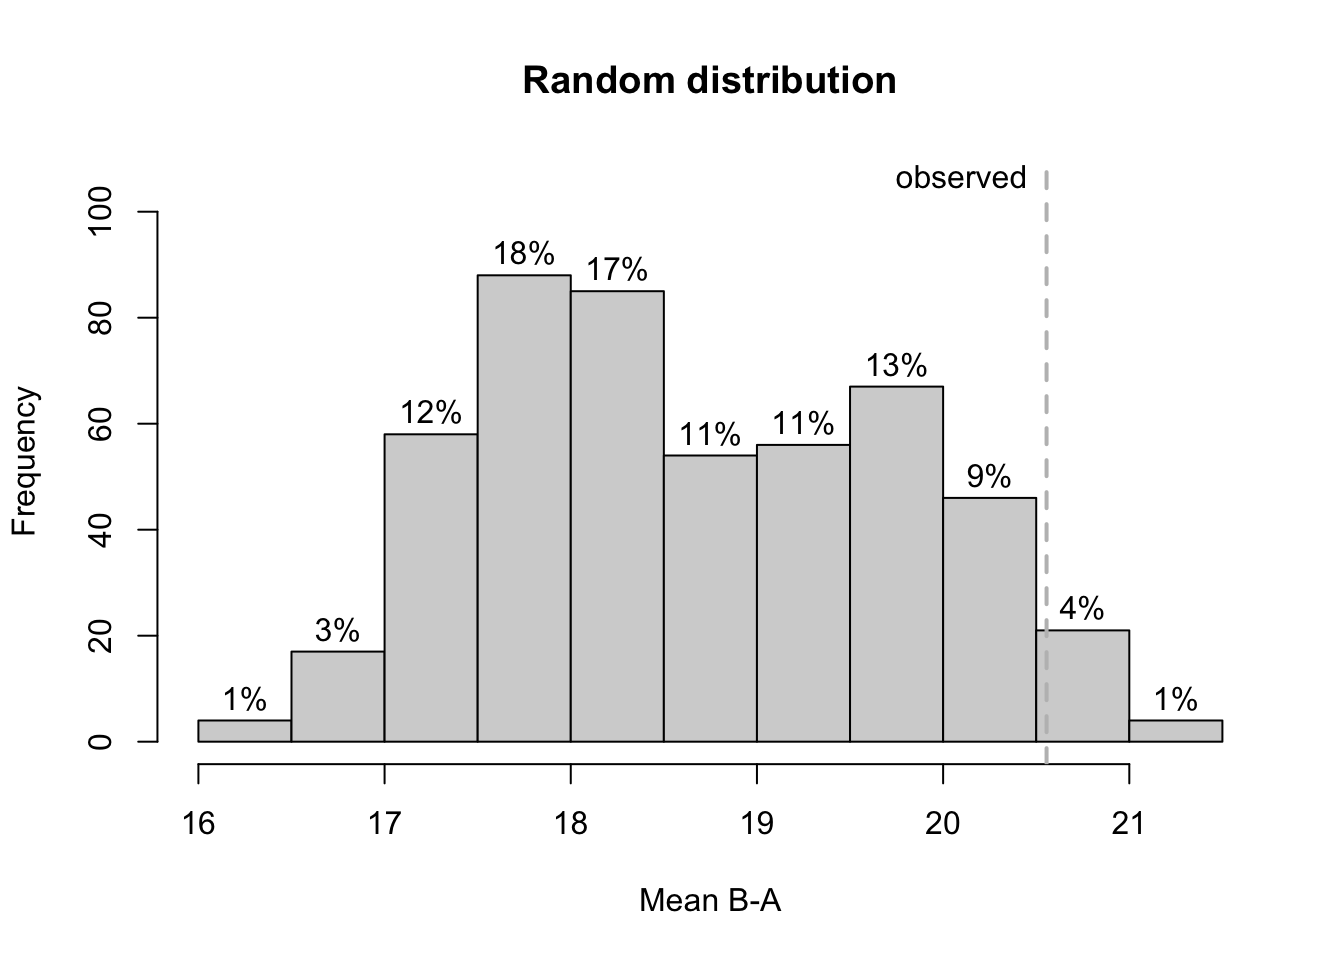
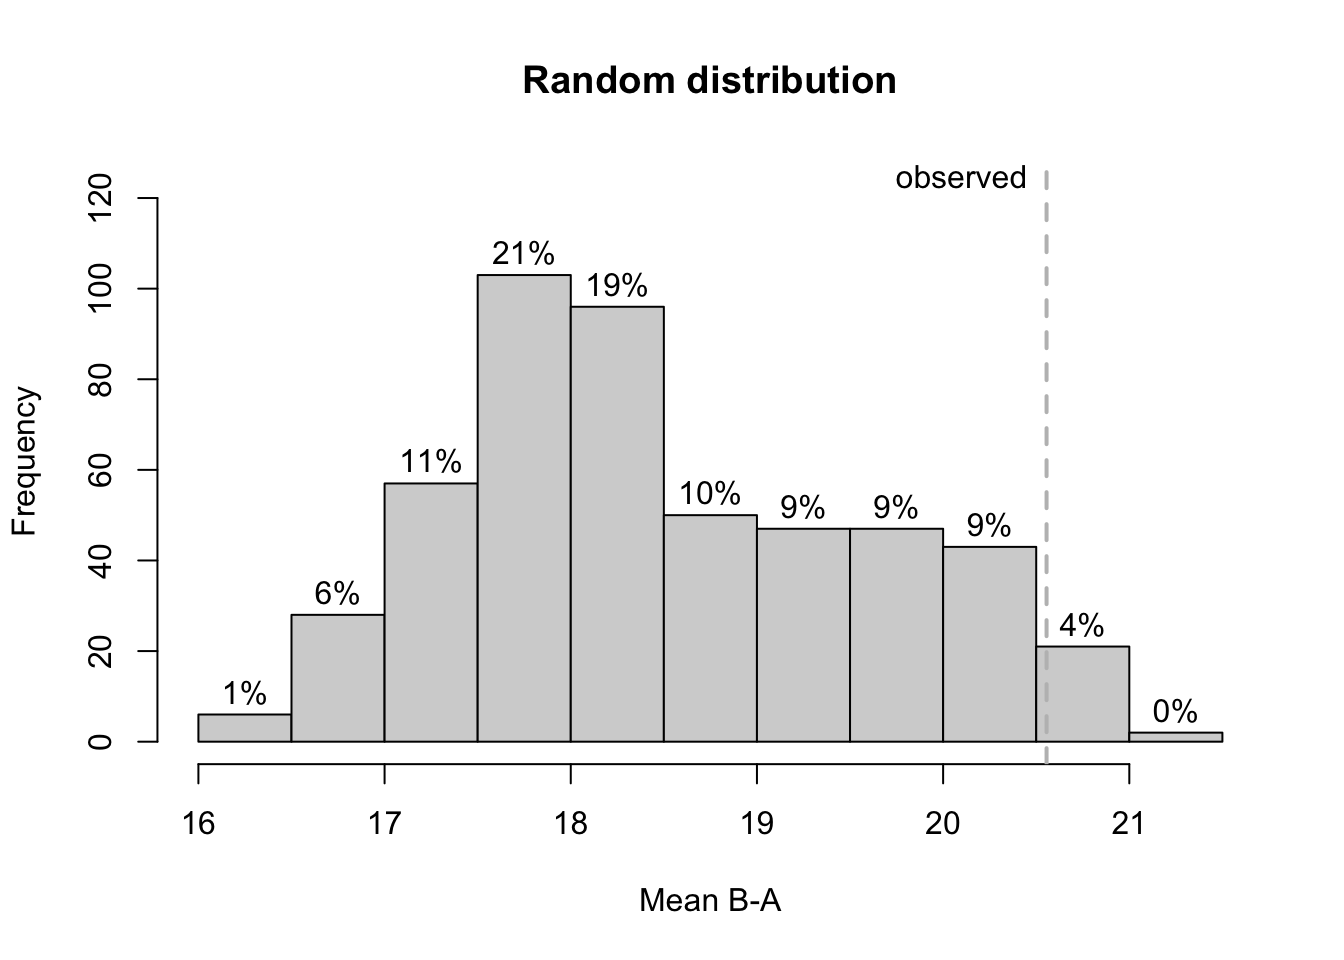
upd
upd

diff --git a/docs/ch_powertest.html b/docs/ch_powertest.html
@@ -490,8 +490,8 @@ The design function call
 <pre><code>Test-Power in percent:
 
     Method Power Alpha Error Alpha:Beta Correct
- plm_level    71           8      1:3.6      82
-      rand    70           7      1:4.3      82
+ plm_level    76           5      1:4.8      86
+      rand    72           7      1:4.0      82
       tauU   100          27      1:0.0      86</code></pre>
 </div>
 </div>
@@ -589,13 +589,13 @@ The design function call
 <pre><code>Test-Power in percent:
 
     Method Power 2.5% 97.5% Alpha Error 2.5% 97.5% Alpha:Beta Correct 2.5%
- plm_level    72   62    81           2  0.2     7     1:14.0      85   79
-      rand    72   62    81           4  1.1    10      1:7.0      84   78
-      tauU   100   96   100          24 16.0    34      1:0.0      88   83
+ plm_level    70   60    79           2  0.2     7     1:15.0      84   78
+      rand    68   58    77           5  1.6    11      1:6.4      82   75
+      tauU   100   96   100          26 17.7    36      1:0.0      87   82
  97.5%
-    90
     89
-    92</code></pre>
+    87
+    91</code></pre>
 </div>
 </div>
 <p>You can also test the power, alpha error, and correct estimates against predefined values. In order to do that, set <code>binom_test = TRUE</code>. The power will be tested against being greater or equal to 80%, the alpha error against being less or equal 5%, and the correct proportion against being greater equal 87.5%.</p>
@@ -605,13 +605,13 @@ The design function call
 <pre><code>Test-Power in percent:
 
     Method Power Alpha Error Alpha:Beta Correct p Power&gt;=80 p Alpha Error&lt;=5
- plm_level    71           1     1:29.0      85           1                0
-      rand    71           5      1:5.8      83           1                1
-      tauU   100          28      1:0.0      86           0                1
+ plm_level    72           3      1:9.3      84           1                0
+      rand    66           7      1:4.9      80           1                1
+      tauU   100          25      1:0.0      88           0                1
  p Correct&gt;=87.5
              0.9
              1.0
-             0.8</code></pre>
+             0.6</code></pre>
 </div>
 </div>
 <p>If you want to define individual values for the three tests, set the <code>binom_test_power</code>. <code>binom_test_alpha</code>, and/or, the <code>binom_test_correct</code> arguments.</p>
@@ -670,8 +670,8 @@ The design function call
 <pre><code>Test-Power in percent:
 
     Method Power Alpha Error Alpha:Beta Correct
- plm_level    71           8      1:3.6      82
-      rand    70           7      1:4.3      82
+ plm_level    76           5      1:4.8      86
+      rand    72           7      1:4.0      82
       tauU   100          27      1:0.0      86
 
 Computation duration is 0.9 seconds.</code></pre>
@@ -686,13 +686,13 @@ Computation duration is 0.9 seconds.</code></pre>
 <span id="cb14-5"><a href="#cb14-5" aria-hidden="true" tabindex="-1"></a><span class="co"># Elapsed time in seconds for each procedure</span></span>
 <span id="cb14-6"><a href="#cb14-6" aria-hidden="true" tabindex="-1"></a><span class="fu">attr</span>(res1, <span class="st">"computation_duration"</span>)[<span class="dv">3</span>]</span>
 <span id="cb14-7"><a href="#cb14-7" aria-hidden="true" tabindex="-1"></a><span class="do">## elapsed </span></span>
-<span id="cb14-8"><a href="#cb14-8" aria-hidden="true" tabindex="-1"></a><span class="do">##    0.07</span></span>
+<span id="cb14-8"><a href="#cb14-8" aria-hidden="true" tabindex="-1"></a><span class="do">##   0.073</span></span>
 <span id="cb14-9"><a href="#cb14-9" aria-hidden="true" tabindex="-1"></a><span class="fu">attr</span>(res2, <span class="st">"computation_duration"</span>)[<span class="dv">3</span>]</span>
 <span id="cb14-10"><a href="#cb14-10" aria-hidden="true" tabindex="-1"></a><span class="do">## elapsed </span></span>
-<span id="cb14-11"><a href="#cb14-11" aria-hidden="true" tabindex="-1"></a><span class="do">##   0.223</span></span>
+<span id="cb14-11"><a href="#cb14-11" aria-hidden="true" tabindex="-1"></a><span class="do">##   0.225</span></span>
 <span id="cb14-12"><a href="#cb14-12" aria-hidden="true" tabindex="-1"></a><span class="fu">attr</span>(res3, <span class="st">"computation_duration"</span>)[<span class="dv">3</span>]</span>
 <span id="cb14-13"><a href="#cb14-13" aria-hidden="true" tabindex="-1"></a><span class="do">## elapsed </span></span>
-<span id="cb14-14"><a href="#cb14-14" aria-hidden="true" tabindex="-1"></a><span class="do">##    0.48</span></span></code><button title="Copy to Clipboard" class="code-copy-button"><i class="bi"></i></button></pre></div>
+<span id="cb14-14"><a href="#cb14-14" aria-hidden="true" tabindex="-1"></a><span class="do">##   0.489</span></span></code><button title="Copy to Clipboard" class="code-copy-button"><i class="bi"></i></button></pre></div>
 </div>
 <p>… and what about our new fast-glm function?</p>
 <div class="cell">
@@ -711,12 +711,12 @@ Computation duration is 0.9 seconds.</code></pre>
 <span id="cb15-13"><a href="#cb15-13" aria-hidden="true" tabindex="-1"></a><span class="fu">attr</span>(res1, <span class="st">"computation_duration"</span>)[<span class="dv">3</span>]</span></code><button title="Copy to Clipboard" class="code-copy-button"><i class="bi"></i></button></pre></div>
 <div class="cell-output cell-output-stdout">
 <pre><code>elapsed 
-  0.152 </code></pre>
+  0.161 </code></pre>
 </div>
 <div class="sourceCode cell-code" id="cb17"><pre class="sourceCode r code-with-copy"><code class="sourceCode r"><span id="cb17-1"><a href="#cb17-1" aria-hidden="true" tabindex="-1"></a><span class="fu">attr</span>(res2, <span class="st">"computation_duration"</span>)[<span class="dv">3</span>]</span></code><button title="Copy to Clipboard" class="code-copy-button"><i class="bi"></i></button></pre></div>
 <div class="cell-output cell-output-stdout">
 <pre><code>elapsed 
-  0.132 </code></pre>
+  0.141 </code></pre>
 </div>
 </div>
 <p>… it is much faster!</p>

diff --git a/docs/ch_randomization_test.html b/docs/ch_randomization_test.html
@@ -441,18 +441,18 @@ Observed statistic =  20.55556
 
 Distribution based on a random sample of all 1331 possible combinations.
 n   =  500 
-M   =  18.64615 
-SD  =  1.120494 
-Min =  16.06667 
-Max =  21.35421 
+M   =  18.48562 
+SD  =  1.120364 
+Min =  16.16243 
+Max =  21.31136 
 
 Probability of observed statistic based on distribution:
 p   =  0.036 
 
-Shapiro-Wilk Normality Test: W = 0.973; p = 0.000  (Hypothesis of normality rejected)
+Shapiro-Wilk Normality Test: W = 0.962; p = 0.000  (Hypothesis of normality rejected)
 
 Probabilty of observed statistic based on the assumption of normality:
-z = 1.7041, p = 0.0442 (single sided)</code></pre>
+z = 1.8476, p = 0.0323 (single sided)</code></pre>
 </div>
 </div>
 

diff --git a/docs/index.html b/docs/index.html
@@ -315,7 +315,7 @@ div.csl-indent {
 
 </header>
 
-<p><strong><em>Version 23.02 (build 41)</em></strong></p>
+<p><strong><em>Version 23.02 (build 42)</em></strong></p>
 <section id="preface" class="level1 unnumbered">
 <h1 class="unnumbered">Preface</h1>
 <p>Hello everyone!</p>
